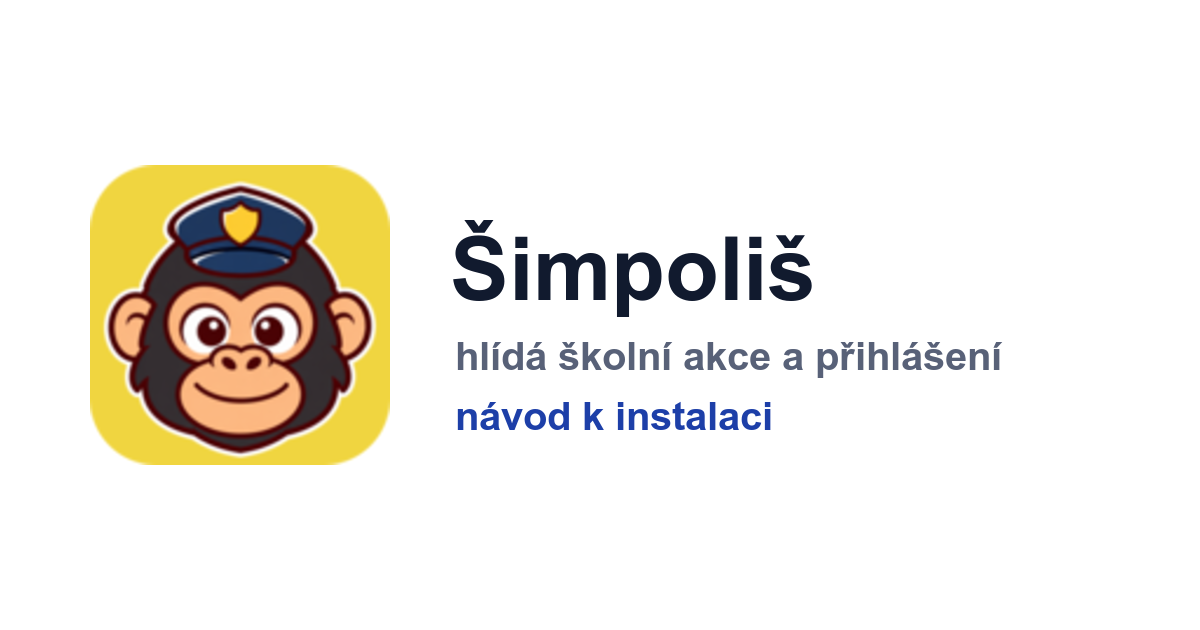
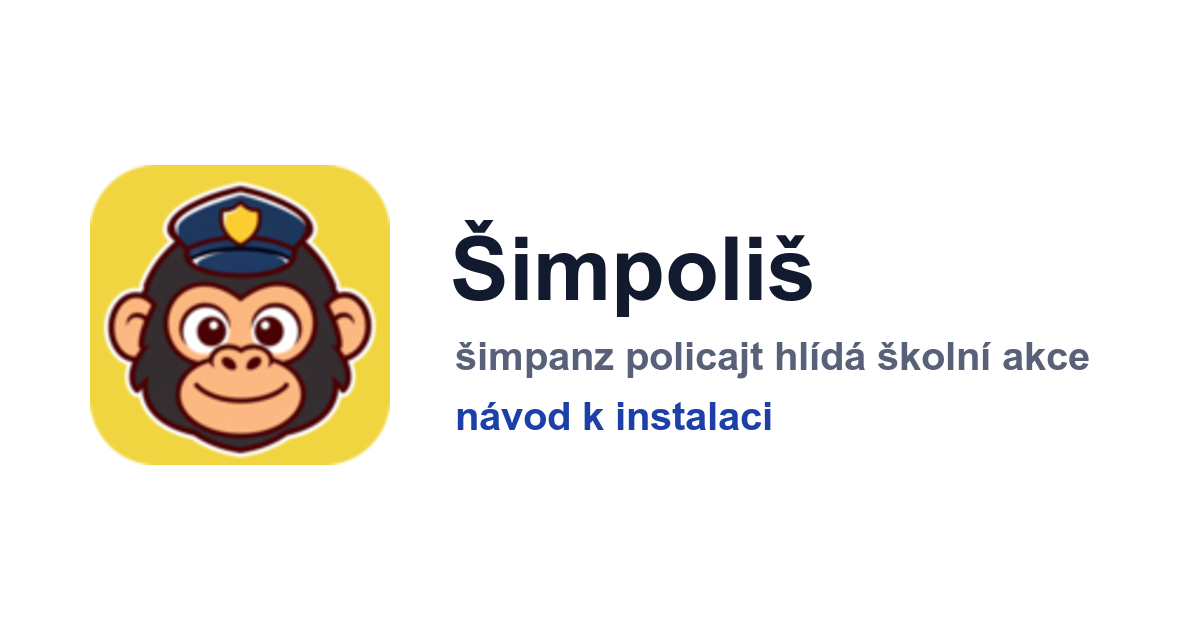
v11.02

Changed region(s): [[0.37, 0.5429, 0.925, 0.6032]]

diff --git a/simpolis/index.html b/simpolis/index.html
@@ -4,11 +4,11 @@
 <meta charset="utf-8">
 <meta name="viewport" content="width=device-width, initial-scale=1">
 <title>Šimpoliš (beta): návod</title>
-<meta name="description" content="Rozšíření pro Chrome, které hlídá školní akce a přihlášení na ně. Návod k instalaci a použití.">
+<meta name="description" content="Šimpoliš - šimpanz policajt hlídá školní akce a přihlásí tě na ně, jakmile to půjde. Rozšíření pro Chrome, návod k instalaci a použití.">
 <meta property="og:type" content="website">
 <meta property="og:locale" content="cs_CZ">
 <meta property="og:title" content="Šimpoliš (beta): návod">
-<meta property="og:description" content="Hlídá školní akce a dá vědět, jakmile se dá přihlásit. Instalace na pár minut.">
+<meta property="og:description" content="Šimpoliš - šimpanz policajt hlídá školní akce a přihlásí tě na ně, jakmile to půjde. Instalace na pár minut.">
 <meta property="og:url" content="https://tomekson.github.io/bananovnik/simpolis/">
 <meta property="og:image" content="https://tomekson.github.io/bananovnik/simpolis/og.png">
 <meta property="og:image:width" content="1200">
